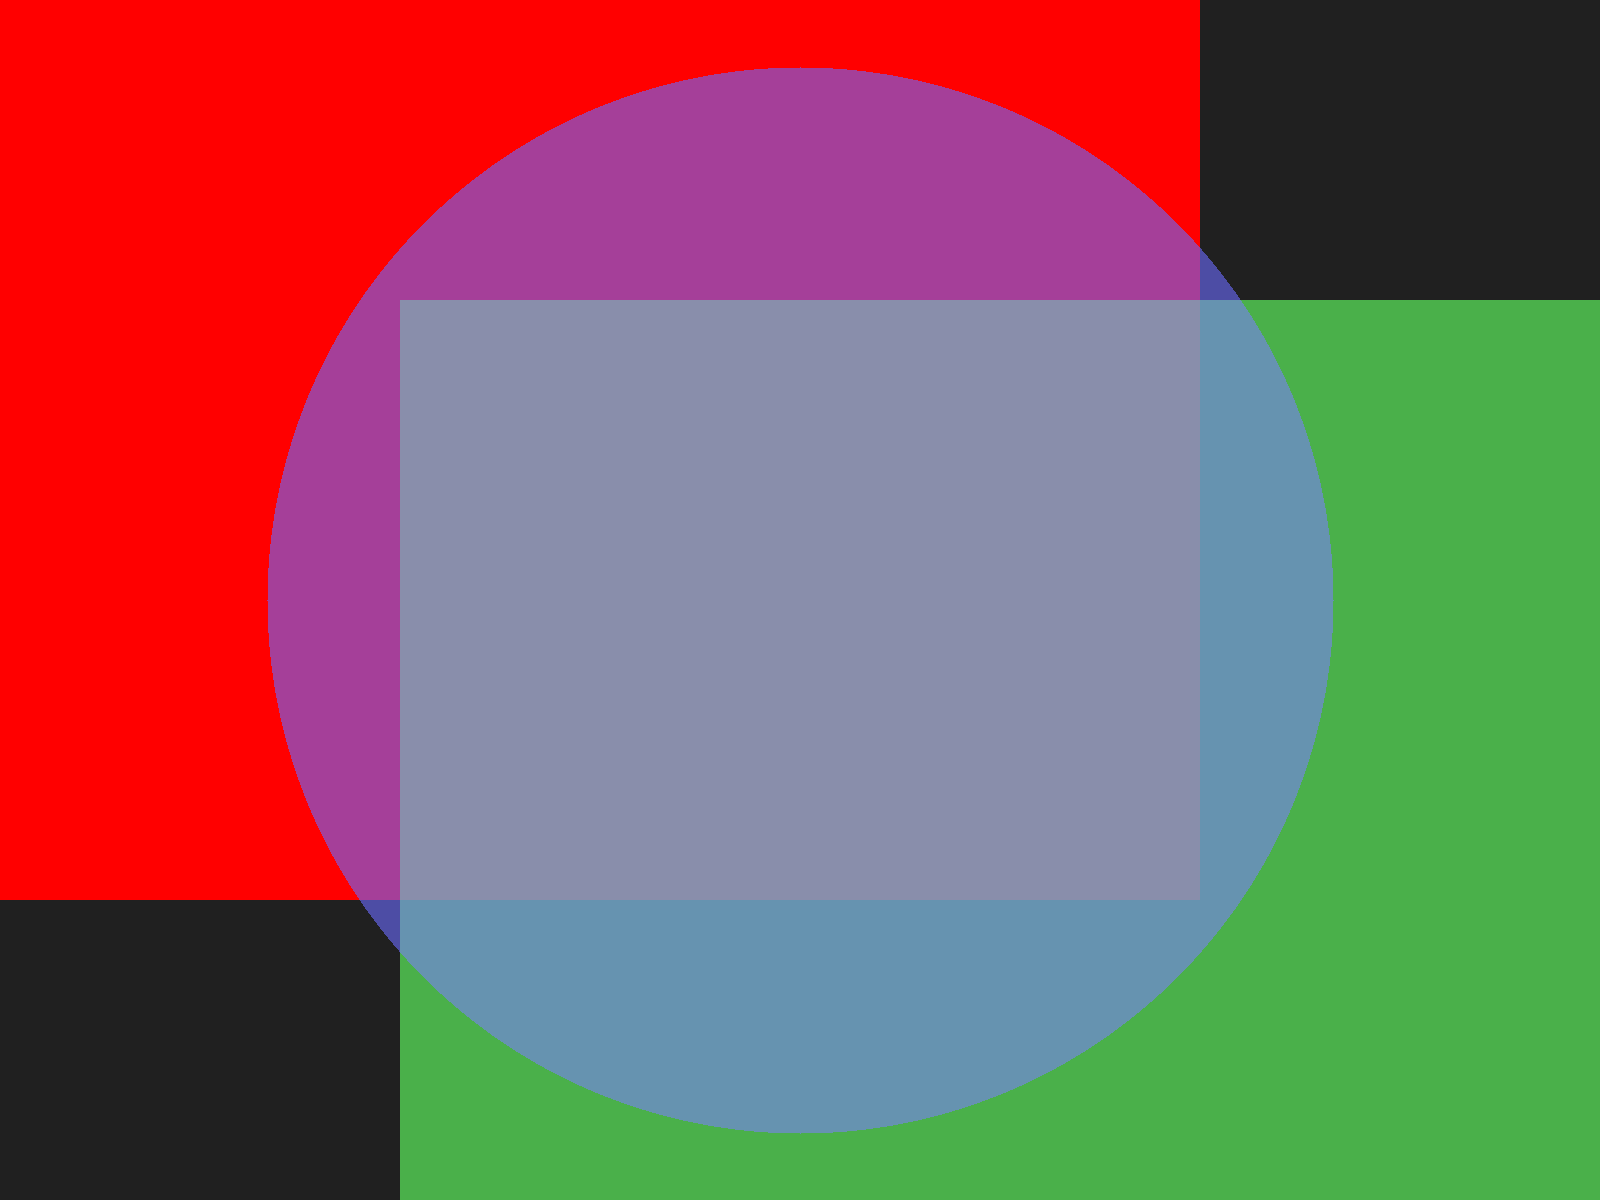
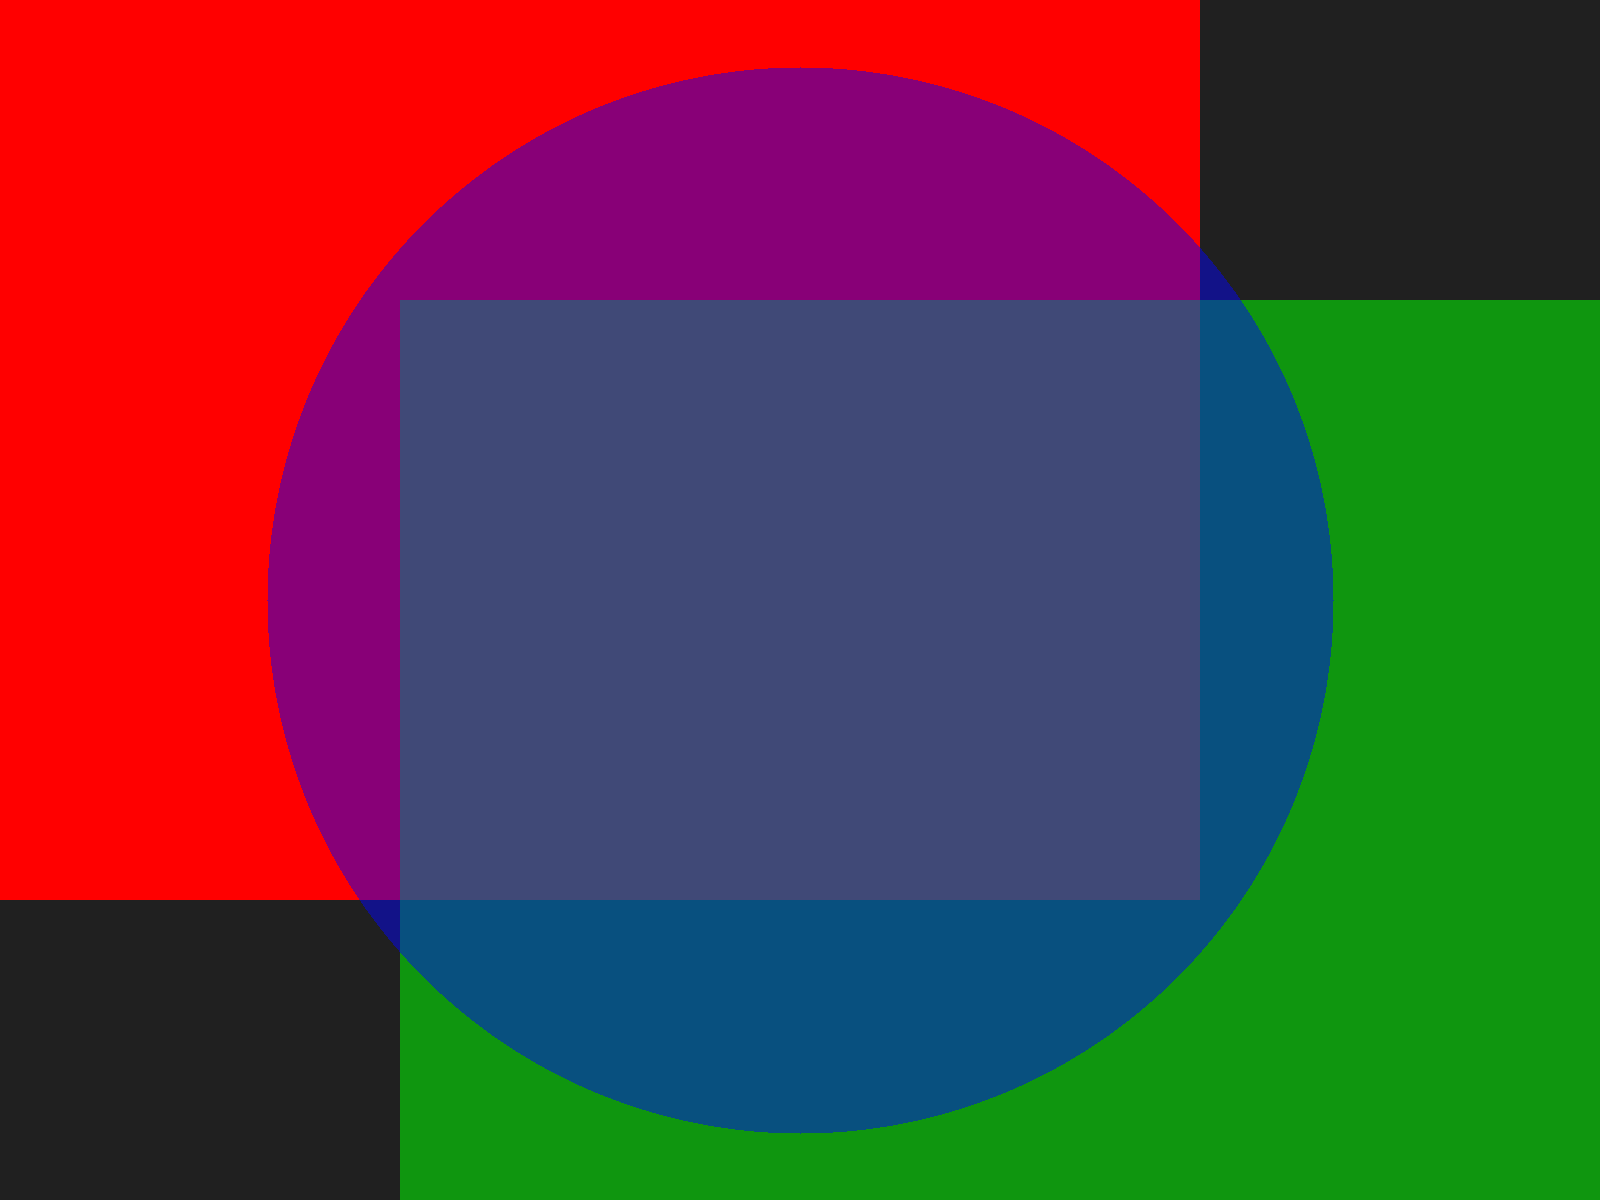
tranperenccy bug fixed

diff --git a/example.c b/example.c
@@ -1,27 +1,27 @@
 #include "zaytun.c"
+#include <stdint.h>
 
 #define STB_IMAGE_WRITE_IMPLEMENTATION
 #include "stb_image_write.h"
 
 #include <stdio.h>
 #include <sys/stat.h>
-#include <sys/types.h>
 
-#define SCALER 1
+#define SCALER 2
 #define WIDTH (SCALER * 800)
 #define HEIGHT (SCALER * 600)
 
-// #define IMG_DIR "demos"
-#define IMG_DIR "test"
+#define IMG_DIR "demos"
+// #define IMG_DIR "test"
 
 #define BACLGROUD_COLOR 0xFF202020
 #define FOREGROUD_COLOR 0xFF0000FF
 
 // access a pixed [HEIGHT*x + WIDTH]
-u_int32_t pixels[HEIGHT * WIDTH];
+uint32_t pixels[HEIGHT * WIDTH];
 
-int save_to_file(u_int32_t *pixels, size_t w, size_t h, const char *file_name) {
-  return stbi_write_png(file_name, w, h, 4, pixels, w * sizeof(u_int32_t));
+int save_to_file(uint32_t *pixels, size_t w, size_t h, const char *file_name) {
+  return stbi_write_png(file_name, w, h, 4, pixels, w * sizeof(uint32_t));
 }
 
 // for the cheker board
@@ -32,7 +32,7 @@ int save_to_file(u_int32_t *pixels, size_t w, size_t h, const char *file_name) {
 void checkerboard_rec() {
   for (int y = 0; y < ROWS; ++y) {
     for (int x = 0; x < COLS; ++x) {
-      u_int32_t color;
+      uint32_t color;
       if ((x + y) % 2 == 0) {
         color = FOREGROUD_COLOR;
       } else {
@@ -78,7 +78,7 @@ void checkerboard_cir() {
 void lines_man() {
   fill(pixels, WIDTH, HEIGHT, BACLGROUD_COLOR);
 
-  u_int32_t c = FOREGROUD_COLOR;
+  uint32_t c = FOREGROUD_COLOR;
   draw_line(pixels, WIDTH, HEIGHT, WIDTH / 2, HEIGHT, WIDTH / 2, 0, c);
   draw_line(pixels, WIDTH, HEIGHT, 0, HEIGHT / 2, WIDTH, HEIGHT / 2, c);
 
@@ -101,7 +101,7 @@ void lines_man() {
 void triangle() {
   fill(pixels, WIDTH, HEIGHT, BACLGROUD_COLOR);
 
-  u_int32_t c = FOREGROUD_COLOR;
+  uint32_t c = FOREGROUD_COLOR;
   fill_triangle(pixels, WIDTH, HEIGHT, WIDTH / 2, HEIGHT / 8, WIDTH / 7,
                 HEIGHT / 2, WIDTH * 7 / 8, HEIGHT * 7 / 8, c);
 

diff --git a/zaytun.c b/zaytun.c
@@ -13,15 +13,15 @@
 
 // 0xAABBGGRR
 typedef enum {
-  COLOR_RED = 0,
-  COLOR_BLUE,
-  COLOR_GREEN,
-  COLOR_ALPHA,
-  COLOR_COUNT,
+  COMP_RED = 0,
+  COMP_GREEN,
+  COMP_BLUE,
+  COMP_ALPHA,
+  COMP_COUNT,
 } Comp_Index;
 
 // taken as u16 so that it expands automatically
-uint8_t mix_copms(uint16_t c1, uint16_t c2, uint16_t a) {
+uint8_t mix_comps(uint16_t c1, uint16_t c2, uint16_t a) {
   // lerp: a, b, t = a + (b-a)*t where 0 <= t <= 1
   // so we need t in range of 0..1 but we have 0..255
   // c1 + (c2-c1) * a/255
@@ -30,16 +30,16 @@ uint8_t mix_copms(uint16_t c1, uint16_t c2, uint16_t a) {
   return c1 + (c2 - c1) * a / 255;
 }
 
-void unpack_rgb32(uint32_t c, uint8_t comp[COLOR_COUNT]) {
-  for (int i = 0; i < COLOR_COUNT; i++) {
+void unpack_rgb32(uint32_t c, uint8_t comp[COMP_COUNT]) {
+  for (int i = 0; i < COMP_COUNT; i++) {
     comp[i] = c & 0xFF;
     c >>= 8;
   }
 }
 
-uint32_t pack_rgb32(uint8_t comp[COLOR_COUNT]) {
+uint32_t pack_rgb32(uint8_t comp[COMP_COUNT]) {
   uint32_t res = 0;
-  for (size_t i = 0; i < COLOR_COUNT; i++) {
+  for (size_t i = 0; i < COMP_COUNT; i++) {
     res |= comp[i] << (8 * i);
   }
 
@@ -47,14 +47,19 @@ uint32_t pack_rgb32(uint8_t comp[COLOR_COUNT]) {
 }
 
 uint32_t mix_colors(uint32_t c1, uint32_t c2) {
-  uint8_t comp1[COLOR_COUNT];
+  uint8_t comp1[COMP_COUNT];
   unpack_rgb32(c1, comp1);
-  uint8_t comp2[COLOR_COUNT];
+
+  uint8_t comp2[COMP_COUNT];
   unpack_rgb32(c2, comp2);
 
-  for (int i = 0; i < COLOR_COUNT; ++i) {
-    // we are also mixing the alpahs
-    comp1[i] = mix_copms(comp1[i], comp2[i], comp2[COLOR_ALPHA]);
+  for (size_t i = 0; i < COMP_ALPHA; ++i) {
+    comp1[i] = mix_comps(comp1[i], comp2[i], comp2[COMP_ALPHA]);
+  }
+
+  if (comp1[COMP_ALPHA] == 0) {
+    comp1[COMP_ALPHA] =
+        mix_comps(comp1[COMP_ALPHA], comp2[COMP_ALPHA], comp2[COMP_ALPHA]);
   }
 
   return pack_rgb32(comp1);
